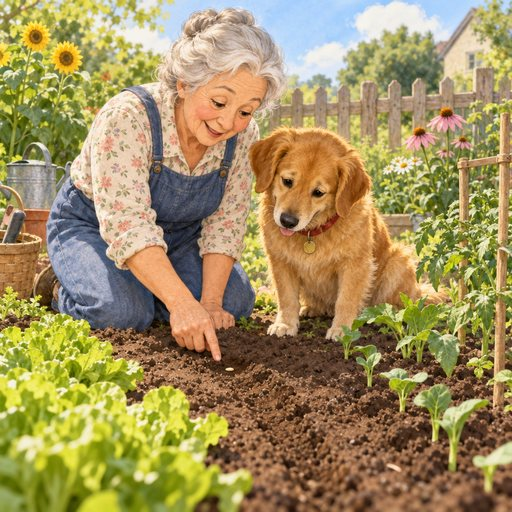
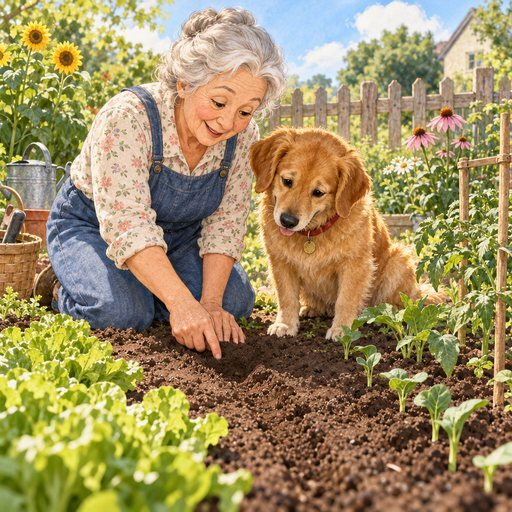
Update stimulus pictures for items 5 and 15 from Claire's revised draft
- Item 5: new picture D (hot, still day) so B is the only gentle-breeze picture
- Item 15: A no longer shows a seed; C now shows the gardener pouring seeds
- Both keys are unchanged (5 = B, 15 = C); removed their Confirm flags

Claude-Session: https://claude.ai/code/session_012nenxy4jSQ6HEc47wrEEne

diff --git a/index.html b/index.html
@@ -158,7 +158,7 @@ const ITEMS = [
   {s:"The long, thin roots soak up the water.", key:"D"},
   {s:"Her flower smells sweet.", key:"A"},
   {s:"The boy is reading under the shady tree by himself.", key:"A"},
-  {s:"Do you feel the breeze blowing gently?", key:"B", check:"B and D both show a gentle breeze (one child vs. two)."},
+  {s:"Do you feel the breeze blowing gently?", key:"B"},
   {s:"The leafy, spiky plant grew between the trees.", key:"C"},
   {s:"The butterfly is flying toward the closest flower.", key:"A"},
   {s:"The teacher asked, “How do plants make their own food?”", key:"D", check:"C (teacher pointing at roots) and D (pointing at leaves) are both plant lessons."},
@@ -168,7 +168,7 @@ const ITEMS = [
   {s:"The deer is eating the leaves not the stem because the thorns are protecting it.", key:"C"},
   {s:"Dad said, “I don’t need to water the garden today since it rained last night.”", key:"A", check:"Chose the sunny morning (rain was last night). D shows rain right now."},
   {s:"A bee landed on the red flower after it developed.", key:"B"},
-  {s:"The gardener who planted the seed was kneeling by her dog.", key:"C", check:"A also shows her kneeling by the dog, next to sprouts."},
+  {s:"The gardener who planted the seed was kneeling by her dog.", key:"C"},
   {s:"He grew like a tall tree.", key:"B"},
   {s:"We moved to a new house because dad said it was time to put down our roots.", key:"C", check:"C shows moving in; D shows the family planting at the new house."},
   {s:"The water was provided to the girl by her mom.", key:"A", check:"A: mom hands the can to the girl. D appears to be the reverse."},
